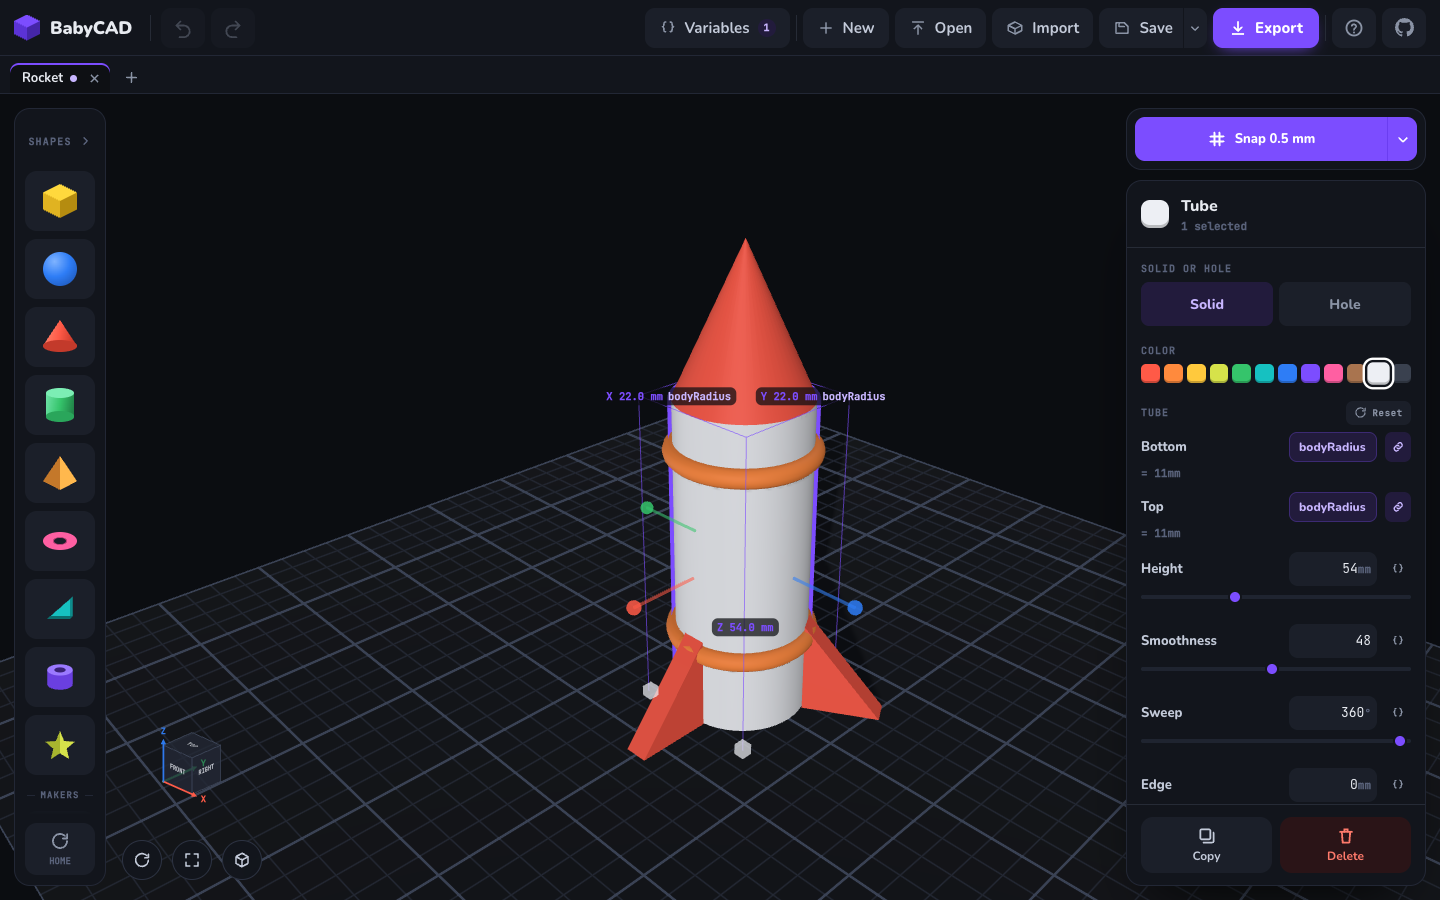
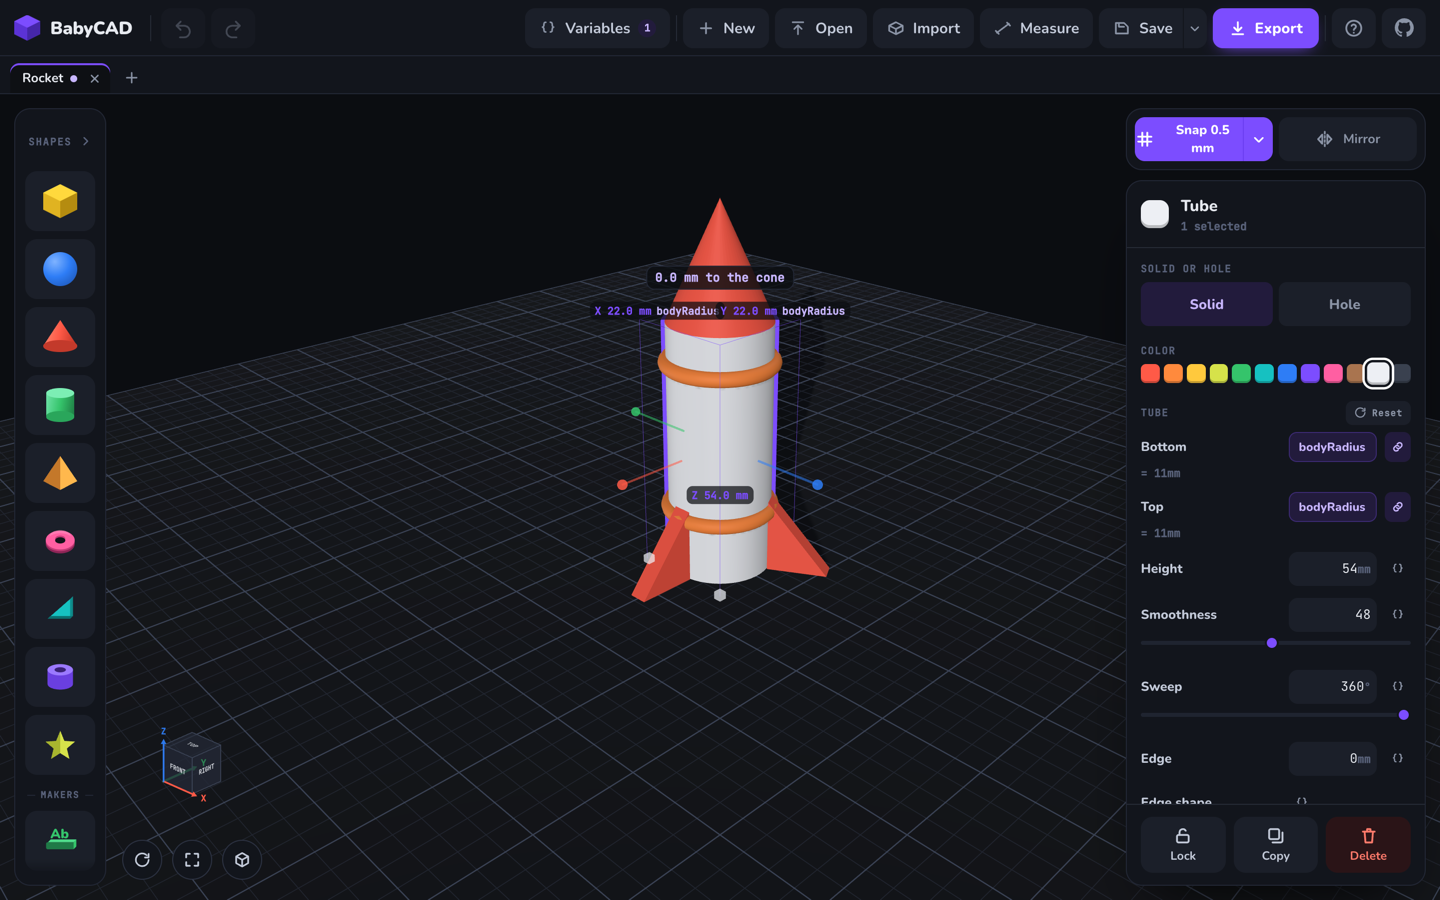
Absolute beginners, and a thumbnail that isn't a screenshot
"For kids" was doing more narrowing than it earned. It is a first CAD
program, and that is true of somebody who has never opened one at any
age — the copy says absolute beginners now, in the title, both social
cards and the README, and the README stops describing its reader as a
child. Nothing about the program changes; it was only ever the way in
that was simple, and that is what the line should have been saying.

The social card was a 1200x630 screenshot of the whole workspace, which
at the size anything actually renders a link preview is a grey rectangle
with some unreadable specks in it. A link preview gets about a second
and a hundred pixels of attention, and a screenshot spends both on
chrome. It is a designed card now: the mark and the wordmark, the line,
one sentence, and four of the app's own toy blocks standing on the
plate — drawn from the same clip-paths and gradients the tray uses, so
it is the product's art rather than a picture of the product. It reads
at thumbnail size, which is the only size that matters.

The README screenshot is reshot, because the last one still had the
Home button in the shape rail.

diff --git a/index.html b/index.html
@@ -13,7 +13,7 @@
     />
     <meta name="theme-color" content="#0E1014" />
 
-    <title>BabyCAD — 3D modelling for kids, in the browser</title>
+    <title>BabyCAD — 3D modelling for absolute beginners, in the browser</title>
     <meta
       name="description"
       content="A 3D building yard that runs entirely in your browser. Drop shapes on the plate, give them real millimetres, and take the result away as an STL you can print. No account, no cloud, no upload."
@@ -31,7 +31,7 @@
     <meta property="og:site_name" content="BabyCAD" />
     <meta property="og:type" content="website" />
     <meta property="og:url" content="https://theanam.github.io/babycad/" />
-    <meta property="og:title" content="BabyCAD — 3D modelling for kids, in the browser" />
+    <meta property="og:title" content="BabyCAD — 3D modelling for absolute beginners, in the browser" />
     <meta
       property="og:description"
       content="Drop shapes on the plate, give them real millimetres, and take the result away as an STL you can print. No account, no cloud, no upload."
@@ -41,12 +41,12 @@
     <meta property="og:image:height" content="630" />
     <meta
       property="og:image:alt"
-      content="The BabyCAD workspace: a rocket built from coloured blocks on a 200 mm build plate, with its size in millimetres in the panel beside it."
+      content="BabyCAD — 3D modelling for absolute beginners. A cube, a ball, a cylinder and a cone standing on a build plate."
     />
     <meta property="og:locale" content="en" />
 
     <meta name="twitter:card" content="summary_large_image" />
-    <meta name="twitter:title" content="BabyCAD — 3D modelling for kids, in the browser" />
+    <meta name="twitter:title" content="BabyCAD — 3D modelling for absolute beginners, in the browser" />
     <meta
       name="twitter:description"
       content="Drop shapes on the plate, give them real millimetres, and take the result away as an STL you can print. No account, no cloud, no upload."

diff --git a/src/ui/touch/TouchBar.jsx b/src/ui/touch/TouchBar.jsx
@@ -11,7 +11,7 @@ import { IsoIcon, MeasureIcon, ShapesIcon, SnapIcon } from '../icons'
  * the thumb and a menu drops down away from it.
  *
  * Deliberately not contextual. A bar whose buttons move when a block is
- * selected costs a child the one thing a toolbar is for, which is knowing
+ * selected costs a beginner the one thing a toolbar is for, which is knowing
  * where the button was last time. Everything to do with the selection is in
  * the sheet that appears above this bar instead.
  */
@@ -23,7 +23,7 @@ export default function TouchBar({ open, onOpen }) {
 
   // Four, and they keep their words on a phone: the type comes down in
   // styles/touch.css rather than the labels coming off, because a row of bare
-  // glyphs is a puzzle and this is a tool for children.
+  // glyphs is a puzzle, and this is somebody's first CAD program.
   const item = (id, label, icon, { on = false, onClick } = {}) => (
     <button
       className={`touchbar-btn${on ? ' on' : ''}`}

diff --git a/src/ui/HelpModal.jsx b/src/ui/HelpModal.jsx
@@ -30,7 +30,7 @@ const SHORTCUTS = [
  * The same sheet, for a device with no keyboard and no mouse buttons.
  *
  * Not a translation of the shortcut list — most of it has no touch equivalent
- * and pretending otherwise would waste a child's time. These are the gestures
+ * and pretending otherwise would waste the reader's time. These are the gestures
  * that exist, including the two that replace things a finger cannot do: the
  * "pick more" switch standing in for Shift-click, and the plain fact that a
  * selection box has to give way to the one-finger drag that turns the view.

diff --git a/README.md b/README.md
@@ -4,8 +4,9 @@
 
 # BabyCAD
 
-**3D modelling for kids, in the browser.** Drop shapes on a 400 mm plate, give
-them real millimetres, and take the result away as an STL you can print.
+**3D modelling for absolute beginners, in the browser.** Drop shapes on a
+400 mm plate, give them real millimetres, and take the result away as an STL
+you can print.
 
 [**Open BabyCAD →**](https://theanam.github.io/babycad/)
 
@@ -17,13 +18,14 @@ No account. No cloud. Nothing you build ever leaves your device.
 
 ## What it is
 
-Most CAD is built for people who already know CAD. BabyCAD is for a child who
-wants a thing — a name tag, a phone stand, a die with real pips — and a printer
-in the corner of the room.
+Most CAD is built for people who already know CAD. BabyCAD is for somebody who
+has never opened one and wants a thing — a name tag, a phone stand, a die with
+real pips — and has a printer in the corner of the room.
 
 It is a real modelling tool underneath. Everything is in millimetres, every
 shape keeps its own numbers rather than a scale multiplier, and what comes out
-is a solid mesh a slicer will accept. It is only the *way in* that is simple.
+is a solid mesh a slicer will accept. It is only the *way in* that is simple —
+which is what makes it a reasonable first CAD program at any age.
 
 - **Shapes with numbers, not just handles.** Drag a cube wider and its Width
   says 30 mm. Type 30 mm and it does the same thing. A tube has a radius, a
